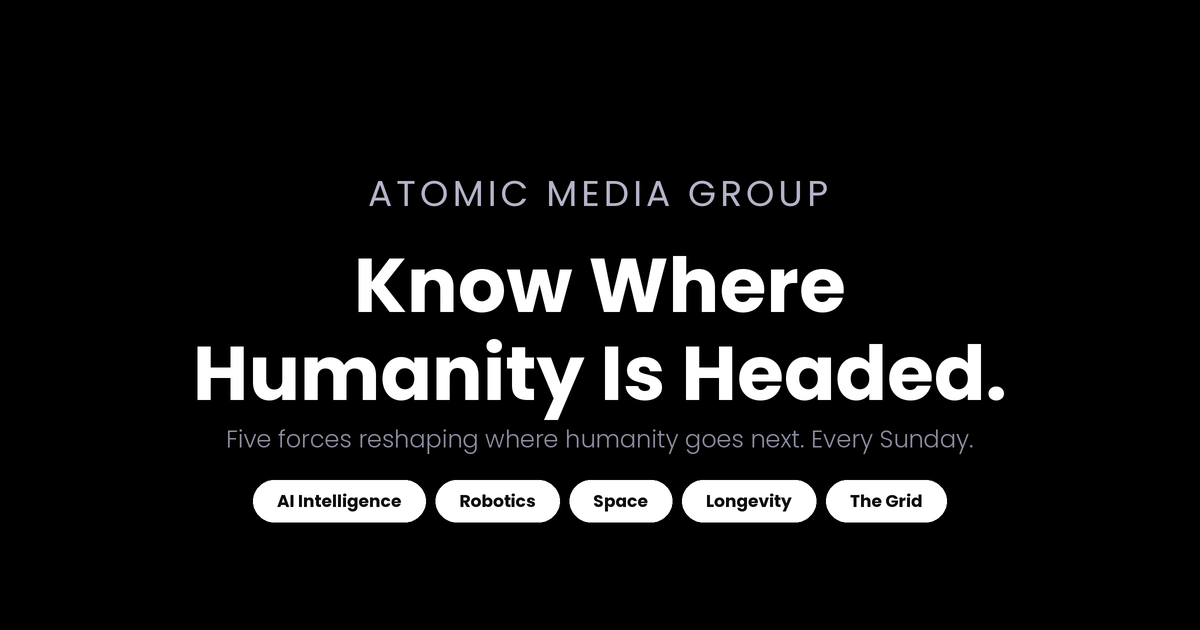
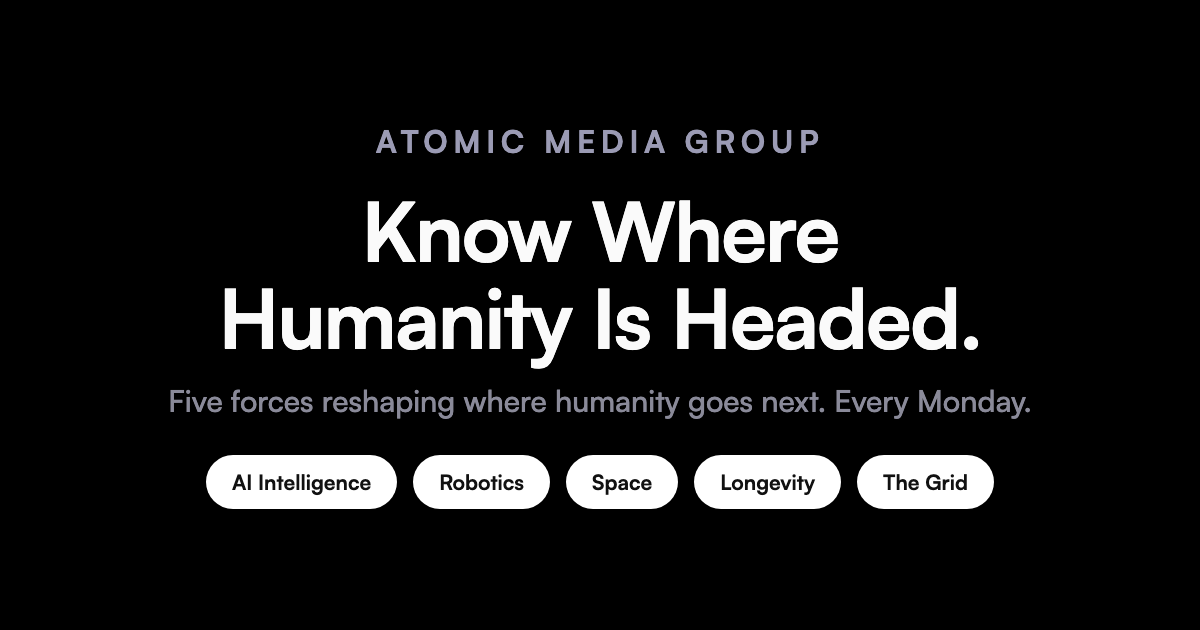
Update OG image: 'Every Monday' (was Sunday); add editable HTML source for regeneration

Changed region(s): [[0.1233, 0.2714, 0.8633, 0.8444], [0.3083, 0.181, 0.6783, 0.2413]]

diff --git a/og-preview.source.html b/og-preview.source.html
@@ -1,0 +1,46 @@
+<!DOCTYPE html>
+<html lang="en">
+<head>
+<meta charset="UTF-8" />
+<link rel="preconnect" href="https://api.fontshare.com" />
+<link href="https://api.fontshare.com/v2/css?f[]=satoshi@400,500,600,700,800&display=swap" rel="stylesheet" />
+<style>
+  * { margin:0; padding:0; box-sizing:border-box; }
+  html,body { width:1200px; height:630px; }
+  body {
+    background:#000;
+    font-family:'Satoshi',-apple-system,BlinkMacSystemFont,sans-serif;
+    display:flex; flex-direction:column; align-items:center; justify-content:center;
+    text-align:center; padding:0 70px;
+  }
+  .eyebrow {
+    font-size:31px; font-weight:600; letter-spacing:0.18em; text-transform:uppercase;
+    color:#9b9bb4; margin-bottom:26px;
+  }
+  .headline {
+    font-size:82px; font-weight:800; line-height:1.06; letter-spacing:-0.02em;
+    color:#fafafa; margin-bottom:20px;
+  }
+  .tagline {
+    font-size:30px; font-weight:500; color:#8a8a99; margin-bottom:34px;
+  }
+  .pills { display:flex; gap:16px; }
+  .pill {
+    background:#fff; color:#111; border-radius:999px;
+    font-size:21px; font-weight:700; padding:13px 26px; white-space:nowrap;
+  }
+</style>
+</head>
+<body>
+  <div class="eyebrow">Atomic Media Group</div>
+  <div class="headline">Know Where<br/>Humanity Is Headed.</div>
+  <div class="tagline">Five forces reshaping where humanity goes next. Every Monday.</div>
+  <div class="pills">
+    <span class="pill">AI Intelligence</span>
+    <span class="pill">Robotics</span>
+    <span class="pill">Space</span>
+    <span class="pill">Longevity</span>
+    <span class="pill">The Grid</span>
+  </div>
+</body>
+</html>